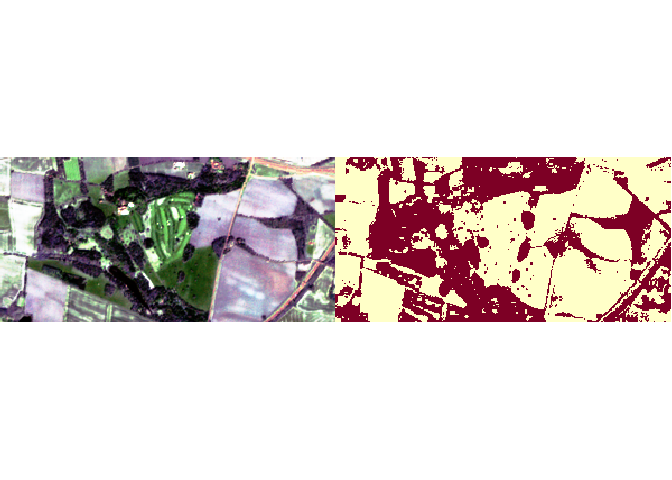
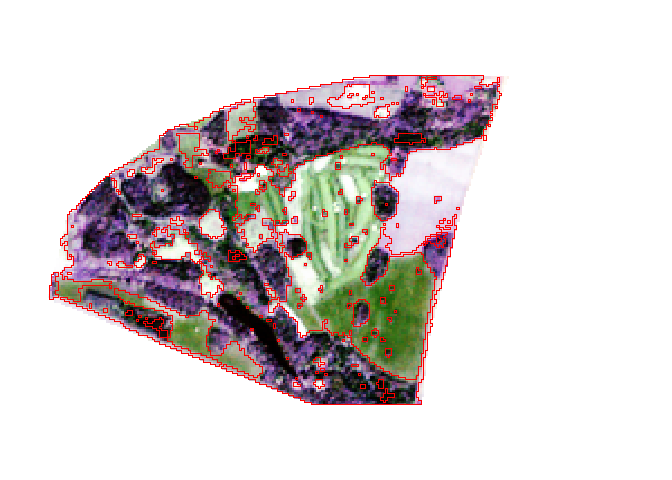
shape conversion and plot

diff --git a/README.md b/README.md
@@ -33,6 +33,11 @@ example_polys <- sf::st_read(system.file("test_polys.gpkg",
   package = "rasterclassifier"
 ))
 
+# read the example mask layer as sf feature
+mask_poly <- sf::st_read(system.file("test_mask.gpkg",
+  package = "rasterclassifier"
+))
+
 # extract pixel values from raster using sf feature collection
 pixel_df <- extract_pixels(example_img, example_polys)
 
@@ -47,13 +52,21 @@ rf <- pixel_df |>
   features_labels_select() |>
   fit_random_forest()
 
+# Mask the prediction image to area of interest
+example_img <- terra::mask(example_img, mask_poly)
+
 # Use the trained model to predict a whole image
 pred_img <- terra::predict(example_img, rf, na.rm = TRUE)
 
-# Plot rgb version of raster and prediction image
-par(mfrow = c(1, 2))
+
+
+pred_features <- sf::st_as_sf(terra::as.polygons(pred_img, dissolve=TRUE)) |>
+  subset(class == 1) |>
+  sf::st_cast("POLYGON")
+
+# Plot rgb version of raster and prediction polys with red outline
 terra::plotRGB(example_img, stretch = "hist")
-terra::image(pred_img, axes = FALSE)
+terra::plot(pred_features, border="red", color=NA, add=TRUE)
 ```
 
 <img src="man/figures/README-example-1.png" width="100%" />
